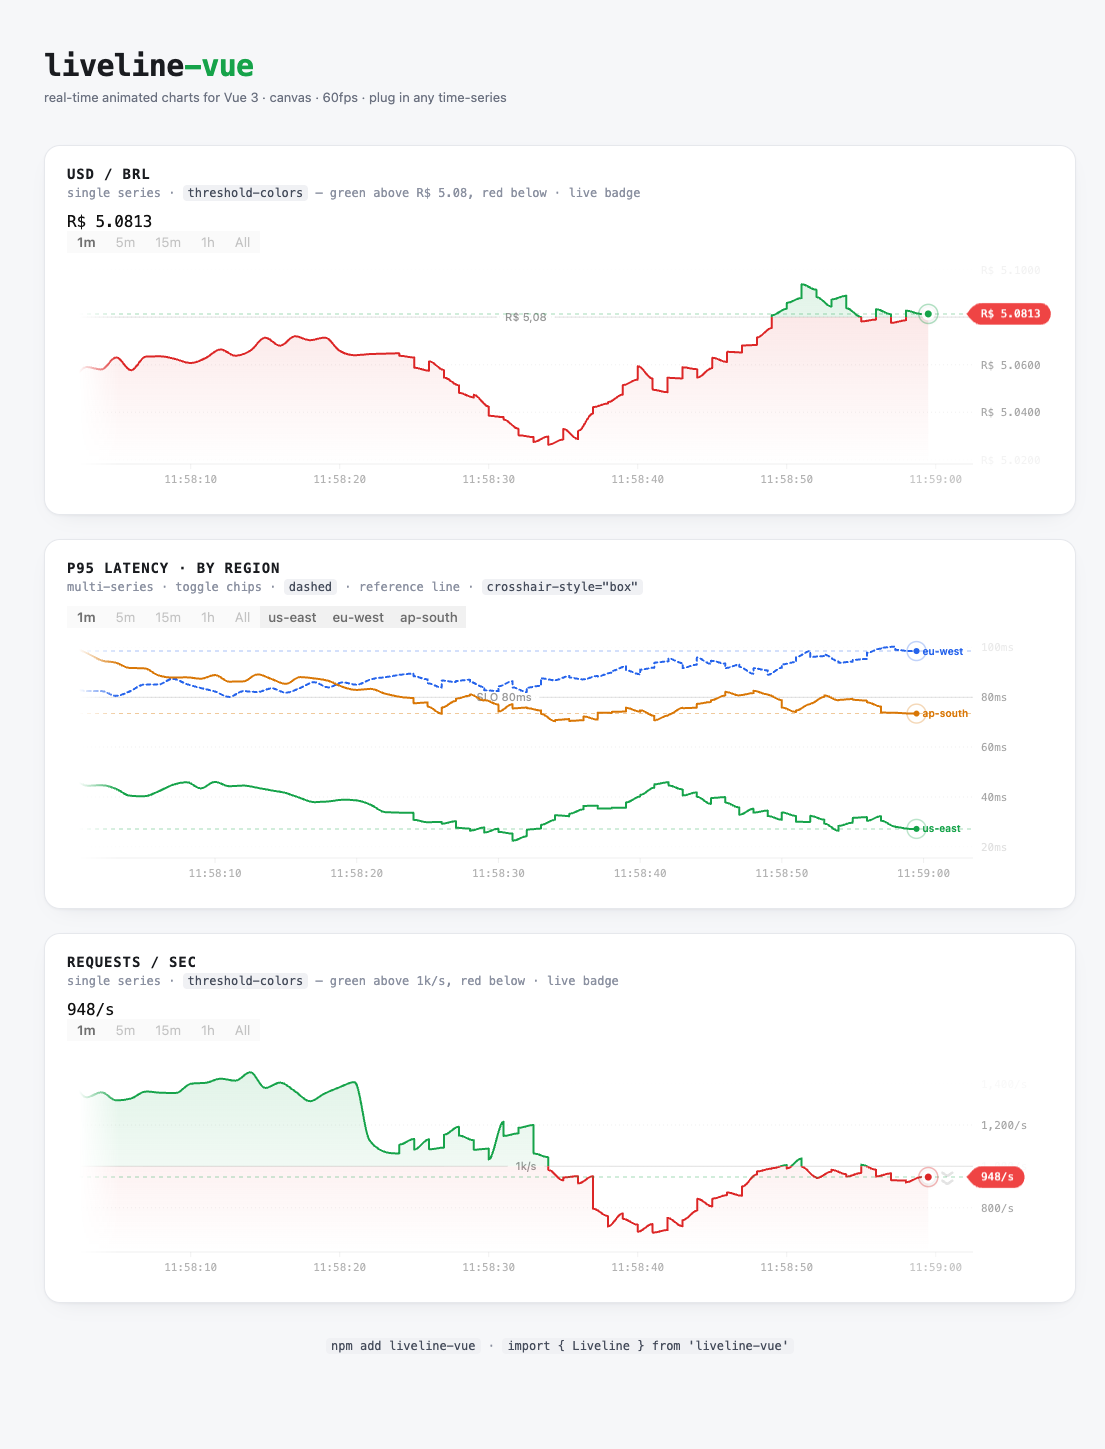
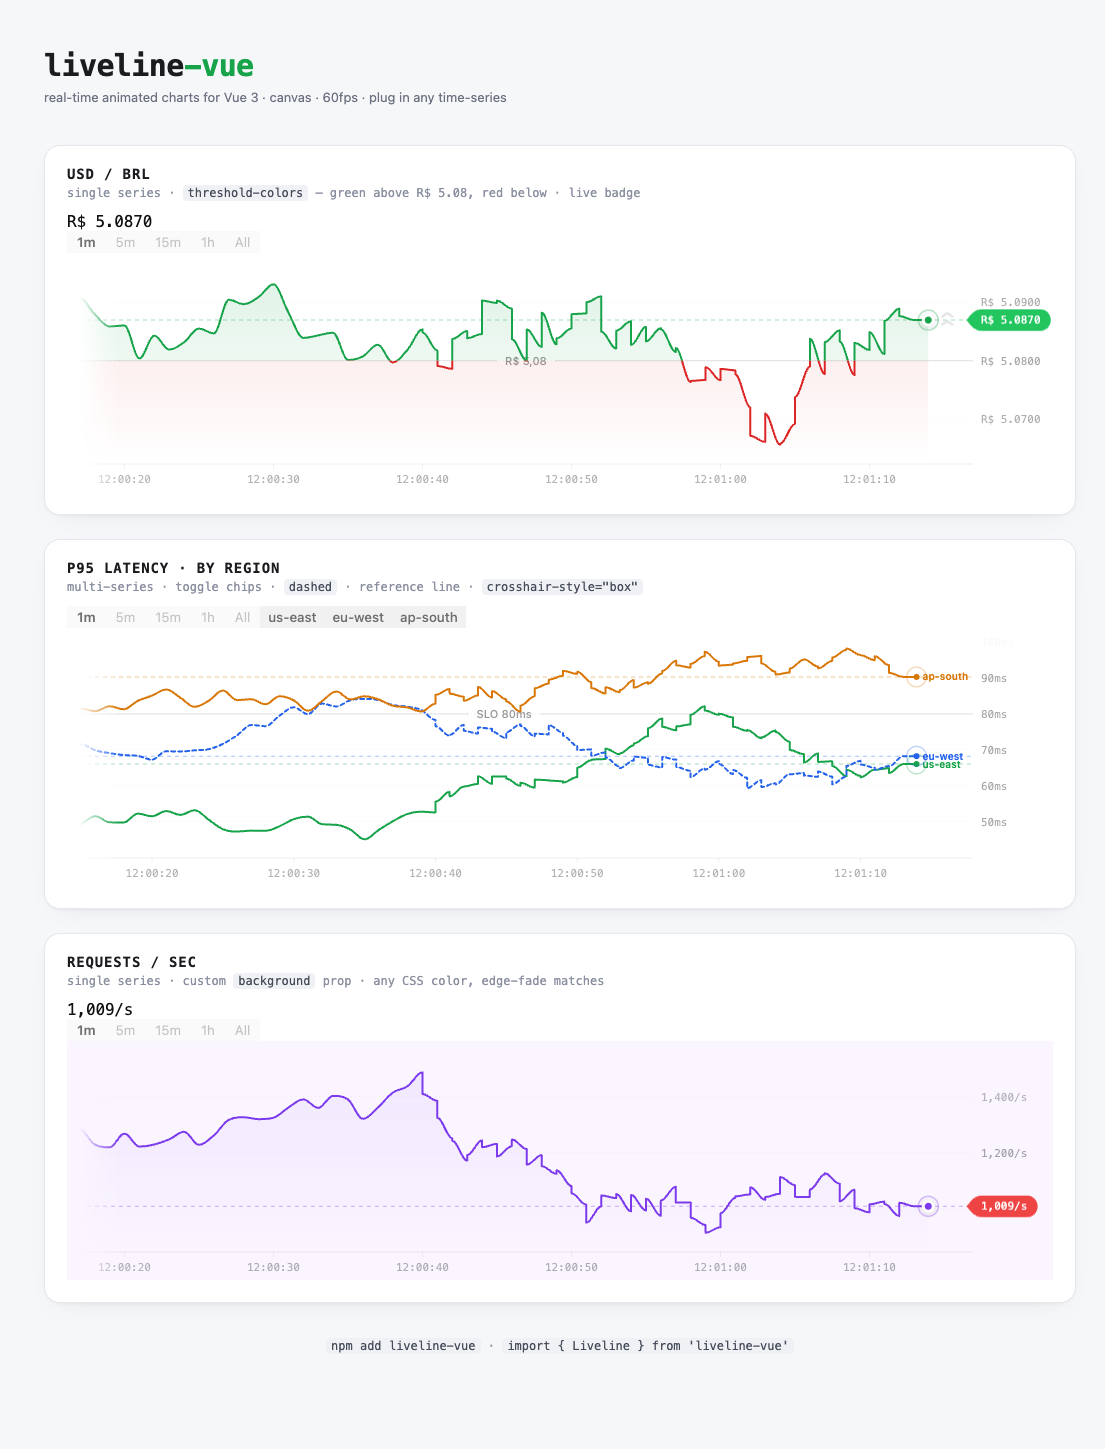
docs(demo): last card back to the purple custom-background chart; refresh hero

diff --git a/demo/App.vue b/demo/App.vue
@@ -133,21 +133,20 @@ onBeforeUnmount(() => clearInterval(timer))
     <section class="card">
       <div class="card-head">
         <div class="title">REQUESTS / SEC</div>
-        <div class="sub">single series · <code>threshold-colors</code> — green above 1k/s, red below · live badge</div>
+        <div class="sub">single series · custom <code>background</code> prop · any CSS color, edge-fade matches</div>
       </div>
       <div class="chart">
         <Liveline
           :data="reqData"
           :value="reqValue"
-          color="#16a34a"
+          color="#7c3aed"
           theme="light"
+          background="#faf5ff"
           grid
           fill
           show-value
           :window="reqWindow"
           :windows="windows"
-          :reference-line="{ value: 1000, label: '1k/s' }"
-          :threshold-colors="{ value: 1000, above: '#16a34a', below: '#dc2626' }"
           :format-value="(v: number) => `${Math.round(v).toLocaleString('en-US')}/s`"
           @window-change="(s: number) => (reqWindow = s)"
         />